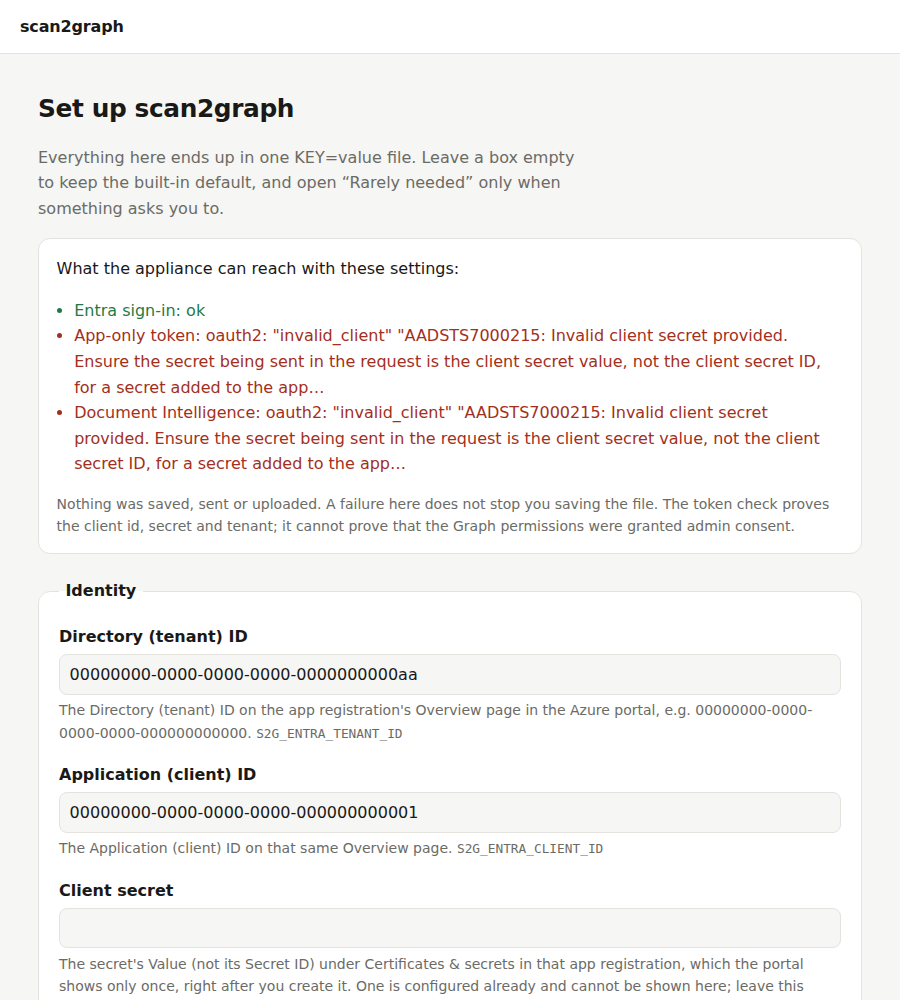
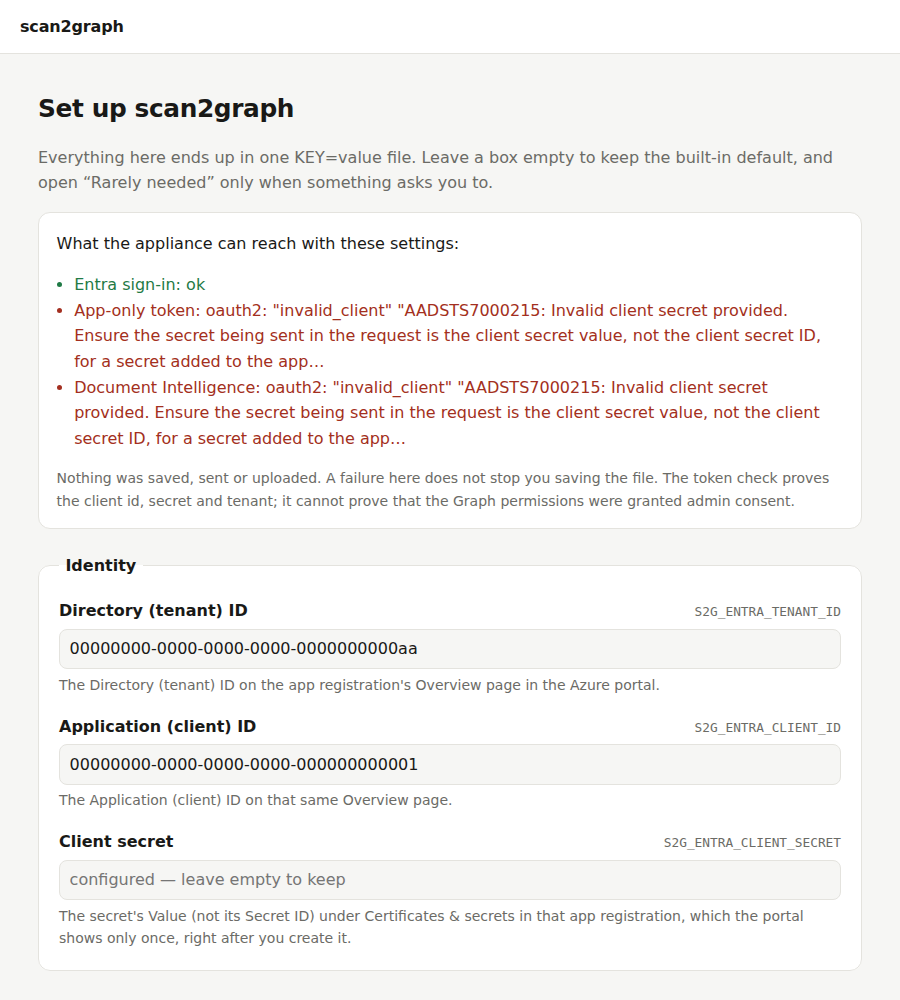
Make the setup form about what actually has to be configured
The wizard asked for twenty-two settings with equal weight, and said each
setting's S2G_* name at the end of the sentence explaining it, where the
name competed with the explanation. Someone setting this up for the first
time reads all of it as equally required.

So the name moves onto the label's row, small and muted: still there for
the operator who is looking for it in the configuration reference, no
longer in the way of the person reading the help. The shape of an answer
moves out of the help sentence into a placeholder, which lets every one of
those sentences get shorter and shows the example where the answer goes
rather than under it. The sentence that said a secret is configured and an
empty box keeps it becomes a placeholder in that box, where it is about
the box it is about.

How long a scan stays available, the log level and the log format are not
things a household tunes, so they join the rarely-needed settings. That
leaves the Advanced card with nothing but rarely-needed settings in it, and
a card built only to hold its own disclosure is a box around a box - so a
group with nothing ordinary left in it now collapses straight to the
disclosure, named for the group it replaces. Nothing declares that; it
follows from the group being entirely rare.

The default time a scan stays downloadable goes from 90 minutes to 8 hours.
Ninety minutes is shorter than the working day the scan was made in: paper
[…]

diff --git a/internal/web/templates/setup.html b/internal/web/templates/setup.html
@@ -40,6 +40,7 @@ consent.</p>
 <form method="post" action="/setup">
 <input type="hidden" name="form" value="{{.Form}}">
 {{range .Groups}}
+{{if .Fields}}
 <fieldset>
 <legend>{{.Name}}</legend>
 {{range .Fields}}{{template "field" .}}{{end}}
@@ -50,6 +51,16 @@ consent.</p>
 </details>
 {{end}}
 </fieldset>
+{{else}}
+{{/* A group that is entirely Rare has nothing ordinary to put in a
+     fieldset, so a fieldset built only to hold its "Rarely needed"
+     disclosure would be a box around a box: collapse straight to the
+     disclosure instead, named for the group it replaces. */}}
+<details class="group">
+<summary>{{.Name}}</summary>
+{{range .Rare}}{{template "field" .}}{{end}}
+</details>
+{{end}}
 {{end}}
 <div class="actions">
 {{if .Path}}<button type="submit" name="action" value="save" class="primary">Save the configuration file</button>{{end}}
@@ -64,23 +75,29 @@ consent.</p>
 {{define "field" -}}
 <div class="field{{if .Error}} bad{{end}}">
 {{if eq .Kind "bool"}}
+<span class="field-head">
 <label class="check"><input type="checkbox" id="{{.Name}}" name="{{.Name}}" value="true"{{if .Checked}} checked{{end}}> {{.Label}}</label>
+<code>{{.Name}}</code>
+</span>
 {{else}}
+<span class="field-head">
 <label for="{{.Name}}">{{.Label}}</label>
+<code>{{.Name}}</code>
+</span>
 {{if eq .Kind "choice"}}
 <select id="{{.Name}}" name="{{.Name}}">
 <option value="">(default)</option>
 {{range .Choice}}<option value="{{.}}"{{if eq . $.Value}} selected{{end}}>{{.}}</option>{{end}}
 </select>
 {{else if eq .Kind "area"}}
-<textarea id="{{.Name}}" name="{{.Name}}" rows="3" spellcheck="false">{{.Value}}</textarea>
+<textarea id="{{.Name}}" name="{{.Name}}" rows="3" spellcheck="false"{{if .Placeholder}} placeholder="{{.Placeholder}}"{{end}}>{{.Value}}</textarea>
 {{else if eq .Kind "secret"}}
-<input type="password" id="{{.Name}}" name="{{.Name}}" value="" autocomplete="new-password">
+<input type="password" id="{{.Name}}" name="{{.Name}}" value="" autocomplete="new-password"{{if .Placeholder}} placeholder="{{.Placeholder}}"{{end}}>
 {{else}}
-<input type="text" id="{{.Name}}" name="{{.Name}}" value="{{.Value}}" spellcheck="false">
+<input type="text" id="{{.Name}}" name="{{.Name}}" value="{{.Value}}" spellcheck="false"{{if .Placeholder}} placeholder="{{.Placeholder}}"{{end}}>
 {{end}}
 {{end}}
 {{if .Error}}<p class="error small">{{.Error}}</p>{{end}}
-<p class="muted small">{{.Help}}{{if .Set}} One is configured already and cannot be shown here; leave this empty to keep it.{{end}} <code>{{.Name}}</code></p>
+<p class="muted small">{{.Help}}</p>
 </div>
 {{- end}}

diff --git a/internal/web/static/style.css b/internal/web/static/style.css
@@ -117,7 +117,7 @@ tbody a:hover { text-decoration: underline; }
 .nowrap { white-space: nowrap; }
 .muted { color: var(--muted); }
 .small { font-size: .875rem; }
-.empty { color: var(--muted); max-width: 34rem; }
+.empty { color: var(--muted); }
 .error { color: var(--warn); }
 
 /* A five-column table does not fit a phone, so each scan becomes a small
@@ -138,7 +138,10 @@ tbody a:hover { text-decoration: underline; }
 
 /* The setup wizard: one long form, filled in once. The groups carry the
    structure, so the boxes themselves can stay quiet. */
-fieldset {
+/* A group that is entirely "rarely needed" collapses straight to the
+   disclosure (see setup.html) and still has to read like the card it stands
+   in for, so the two share one box. */
+fieldset, details.group {
   margin: 0 0 1.5rem;
   padding: 1.25rem;
   background: var(--panel);
@@ -147,9 +150,16 @@ fieldset {
 }
 legend { padding: 0 .4rem; font-weight: 600; }
 summary { cursor: pointer; color: var(--muted); font-size: .9rem; margin-bottom: .9rem; }
+details.group summary { font-weight: 600; color: inherit; font-size: 1rem; margin-bottom: 0; }
+details.group[open] summary { margin-bottom: .9rem; }
 .field { margin-bottom: 1.1rem; }
 .field:last-child { margin-bottom: 0; }
-.field > label { display: block; font-weight: 600; margin-bottom: .3rem; }
+/* The S2G_* key rides along the label's row instead of the help line below,
+   small and out of the way, so the setting's name never competes with the
+   sentence explaining it. */
+.field-head { display: flex; flex-wrap: wrap; align-items: baseline; justify-content: space-between; gap: .3rem .75rem; margin-bottom: .3rem; }
+.field-head label { font-weight: 600; }
+.field-head code { color: var(--muted); }
 .field p { margin: .3rem 0 0; }
 .field input, .field select, .field textarea {
   font: inherit;

diff --git a/internal/web/setupfields.go b/internal/web/setupfields.go
@@ -23,6 +23,11 @@ type setupField struct {
 	Choice            []string // fieldChoice only
 	Group             string   // fieldset heading
 	Rare              bool     // renders inside the group's <details> block
+	// Placeholder is a synthetic example shown in an empty box, so the shape
+	// of an answer needs no sentence of its own. It never shows once Set is
+	// true: what the box then has to say is that something is configured,
+	// not what one might look like.
+	Placeholder string
 }
 
 // setupFields is every S2G_* setting a real deployment might set, in the
@@ -33,40 +38,51 @@ type setupField struct {
 var setupFields = []setupField{
 	{
 		Name: "S2G_ENTRA_TENANT_ID", Label: "Directory (tenant) ID", Group: "Identity",
-		Help: "The Directory (tenant) ID on the app registration's Overview page in the Azure portal, e.g. 00000000-0000-0000-0000-000000000000.",
+		Help:        "The Directory (tenant) ID on the app registration's Overview page in the Azure portal.",
+		Placeholder: "00000000-0000-0000-0000-000000000000",
 	}, {
 		Name: "S2G_ENTRA_CLIENT_ID", Label: "Application (client) ID", Group: "Identity",
-		Help: "The Application (client) ID on that same Overview page.",
+		Help:        "The Application (client) ID on that same Overview page.",
+		Placeholder: "00000000-0000-0000-0000-000000000000",
 	}, {
 		Name: "S2G_ENTRA_CLIENT_SECRET", Label: "Client secret", Kind: fieldSecret, Group: "Identity",
 		Help: "The secret's Value (not its Secret ID) under Certificates & secrets in that app registration, which the portal shows only once, right after you create it.",
 	}, {
 		Name: "S2G_GRAPH_SENDER", Label: "Sending mailbox", Group: "Delivery",
-		Help: "The mailbox scans are mailed from, e.g. scanner@example.com; setting it together with the allowlist below is what turns email delivery on.",
+		Help:        "The mailbox scans are mailed from; setting it together with the allowlist below is what turns email delivery on.",
+		Placeholder: "scanner@example.com",
 	}, {
 		Name: "S2G_ALLOWED_RECIPIENT_DOMAINS", Label: "Allowed recipient domains", Group: "Delivery",
-		Help: "Comma-separated domains a scan may be mailed to, without a leading @ and matched exactly, e.g. example.com; email delivery requires it, or the appliance would be an open relay.",
+		Help:        "Comma-separated domains a scan may be mailed to, without a leading @ and matched exactly; email delivery requires it, or the appliance would be an open relay.",
+		Placeholder: "example.com, example.org",
 	}, {
 		Name: "S2G_RECIPIENT_ALIASES", Label: "Recipient aliases", Kind: fieldArea, Group: "Delivery",
-		Help: `JSON object mapping a shorthand address the printer's address book can hold to the real one, e.g. {"printer-shortcut@scanner.local":"jane.doe@example.com"}.`,
+		Help:        "JSON object mapping a shorthand address the printer's address book can hold to the real one.",
+		Placeholder: `{"printer-shortcut@scanner.local":"jane.doe@example.com"}`,
 	}, {
 		Name: "S2G_PUBLIC_BASE_URL", Label: "Public URL", Group: "Web UI",
-		Help: "Where this appliance is reached through the reverse proxy that terminates TLS, e.g. https://scan2graph.example.com; setting it is what turns the web UI on, and it must address the root of a host of its own.",
+		Help:        "Where this appliance is reached through the reverse proxy that terminates TLS; setting it is what turns the web UI on, and it must address the root of a host of its own.",
+		Placeholder: "https://scan2graph.example.com",
 	}, {
 		Name: "S2G_UI_TITLE", Label: "Name shown in the UI", Group: "Web UI",
-		Help: "What the web UI calls itself in its title and header, so it can say the household's or the office's name; defaults to scan2graph.",
+		Help:        "What the web UI calls itself in its title and header, so it can say the household's or the office's name.",
+		Placeholder: "scan2graph",
 	}, {
-		Name: "S2G_JOB_TTL", Label: "How long a scan stays available", Group: "Web UI",
-		Help: "How long a scan can be downloaded before it and its files are deleted, written like 90m or 2h and at least 1m.",
+		Name: "S2G_JOB_TTL", Label: "How long a scan stays available", Group: "Web UI", Rare: true,
+		Help:        "How long a scan can be downloaded before it and its files are deleted; must be at least 1m.",
+		Placeholder: "8h",
 	}, {
 		Name: "S2G_HTTP_ADDR", Label: "HTTP listen address", Group: "Web UI", Rare: true,
-		Help: "Address the web UI listens on inside the container; defaults to :8080.",
+		Help:        "Address the web UI listens on inside the container.",
+		Placeholder: ":8080",
 	}, {
 		Name: "S2G_SMTP_ADDR", Label: "SMTP listen address", Group: "Scanner",
-		Help: "Address the printer sends its scans to; defaults to :2525.",
+		Help:        "Address the printer sends its scans to.",
+		Placeholder: ":2525",
 	}, {
 		Name: "S2G_SMTP_USERNAME", Label: "SMTP username", Group: "Scanner",
-		Help: "Username the printer signs in with; defaults to scanner, and only means anything once a password is set.",
+		Help:        "Username the printer signs in with; only means anything once a password is set.",
+		Placeholder: "scanner",
 	}, {
 		Name: "S2G_SMTP_PASSWORD", Label: "SMTP password", Kind: fieldSecret, Group: "Scanner",
 		Help: "Password the printer signs in with; leave it unset and scan2graph makes up a new one on every start, which means reconfiguring the printer after every restart.",
@@ -75,30 +91,36 @@ var setupFields = []setupField{
 		Help: "For a printer that cannot authenticate at all: only on a trusted, isolated network segment, and not together with a username or password.",
 	}, {
 		Name: "S2G_PROFILES", Label: "Sender profiles", Kind: fieldArea, Group: "Scanner", Rare: true,
-		Help: `JSON object giving each printer sender address the features it may use, e.g. {"scan-web@scanner.local":{"email":false,"web":true,"ocr":true}}; leave it empty and every sender gets whatever the settings above enable.`,
+		Help:        "JSON object giving each printer sender address the features it may use; leave it empty and every sender gets whatever the settings above enable.",
+		Placeholder: `{"scan-web@scanner.local":{"email":false,"web":true,"ocr":true}}`,
 	}, {
 		Name: "S2G_MAX_MESSAGE_BYTES", Label: "Largest accepted message", Group: "Scanner", Rare: true,
-		Help: "Biggest message the SMTP listener accepts, in bytes; defaults to 33554432, which is 32 MiB.",
+		Help:        "Biggest message the SMTP listener accepts, in bytes; the default is 32 MiB.",
+		Placeholder: "33554432",
 	}, {
 		Name: "S2G_DI_ENDPOINT", Label: "Document Intelligence endpoint", Group: "Text recognition",
-		Help: "The https URL of the Azure Document Intelligence resource that makes scans searchable, e.g. https://replace-me.cognitiveservices.azure.com; setting it is what turns text recognition on.",
+		Help:        "The https URL of the Azure Document Intelligence resource that makes scans searchable; setting it is what turns text recognition on.",
+		Placeholder: "https://example.cognitiveservices.azure.com",
 	}, {
 		Name: "S2G_LOG_LEVEL", Label: "Log level", Kind: fieldChoice,
-		Choice: []string{"debug", "info", "warn", "error"}, Group: "Advanced",
+		Choice: []string{"debug", "info", "warn", "error"}, Group: "Advanced", Rare: true,
 		Help: "How much scan2graph writes to its log; defaults to info.",
 	}, {
 		Name: "S2G_LOG_FORMAT", Label: "Log format", Kind: fieldChoice,
-		Choice: []string{"json", "text"}, Group: "Advanced",
+		Choice: []string{"json", "text"}, Group: "Advanced", Rare: true,
 		Help: "json for a log collector, text for reading it yourself; defaults to json.",
 	}, {
 		Name: "S2G_TEMP_DIR", Label: "Temporary directory", Group: "Advanced", Rare: true,
-		Help: "Where scans are kept while they are worked on; it is wiped on every start and defaults to the operating system's temp directory.",
+		Help:        "Where scans are kept while they are worked on; it is wiped on every start and defaults to the operating system's temp directory.",
+		Placeholder: "/tmp",
 	}, {
 		Name: "S2G_MAX_JOBS", Label: "Most scans kept at once", Group: "Advanced", Rare: true,
-		Help: "How many scans may be queued, in flight or waiting to be picked up together; defaults to 32.",
+		Help:        "How many scans may be queued, in flight or waiting to be picked up together.",
+		Placeholder: "32",
 	}, {
 		Name: "S2G_MAX_CONCURRENT_JOBS", Label: "Scans processed at once", Group: "Advanced", Rare: true,
-		Help: "How many scans are worked on at the same time; defaults to 2.",
+		Help:        "How many scans are worked on at the same time.",
+		Placeholder: "2",
 	},
 }
 

diff --git a/internal/web/setup.go b/internal/web/setup.go
@@ -504,10 +504,11 @@ type setupGroup struct {
 // is never rendered back.
 type setupInput struct {
 	setupField
-	Value   string
-	Checked bool
-	Set     bool // a value is configured that no box can show
-	Error   string
+	Value       string
+	Checked     bool
+	Set         bool // a value is configured that no box can show
+	Placeholder string
+	Error       string
 }
 
 func (s *setupServer) view(values map[string]string, general []string, byField map[string]string) setupView {
@@ -524,6 +525,12 @@ func (s *setupServer) view(values map[string]string, general []string, byField m
 		// the next press from this page - which folds into these values,
 		// remember having stored them under the id being rendered.
 		in.Set = values[f.Name+"_FILE"] != "" || (f.Kind == fieldSecret && values[f.Name] != "")
+		// Set wins over a field's own shape example: once there is a value no
+		// box can show, saying so is more important than what one looks like.
+		in.Placeholder = f.Placeholder
+		if in.Set {
+			in.Placeholder = "configured — leave empty to keep"
+		}
 		switch f.Kind {
 		case fieldSecret:
 			// Never rendered back into the page.

diff --git a/internal/web/setup_test.go b/internal/web/setup_test.go
@@ -353,7 +353,7 @@ func TestSetupRejectsAndAttributes(t *testing.T) {
 	if strings.Contains(body, testClientSecret) {
 		t.Fatal("the re-rendered form rendered the client secret")
 	}
-	if !strings.Contains(body, "One is configured already") {
+	if !strings.Contains(body, "configured — leave empty to keep") {
 		t.Error("the page does not offer to keep the secret it is holding")
 	}
 	fixed := validForm()
@@ -451,7 +451,7 @@ func TestSetupKeepsAFileSuppliedValue(t *testing.T) {
 				t.Fatal("the configured value was rendered into the page")
 			}
 			field, _, _ := strings.Cut(body[strings.Index(body, `id="`+name+`"`):], "</div>")
-			if !strings.Contains(field, "One is configured already") {
+			if !strings.Contains(field, "configured — leave empty to keep") {
 				t.Errorf("the page does not say that an empty box keeps the configured value:\n%s", field)
 			}
 

diff --git a/internal/config/config.go b/internal/config/config.go
@@ -164,7 +164,7 @@ func Load(getenv func(string) string) (*Config, error) {
 	c.GraphBaseURL = l.baseURLDefault("S2G_GRAPH_BASE_URL", "https://graph.microsoft.com/v1.0", "http", "https")
 	c.GraphScope = l.stringDefault("S2G_GRAPH_SCOPE", "https://graph.microsoft.com/.default")
 
-	c.JobTTL = l.durationAtLeast("S2G_JOB_TTL", 90*time.Minute, time.Minute)
+	c.JobTTL = l.durationAtLeast("S2G_JOB_TTL", 8*time.Hour, time.Minute)
 
 	c.Limits = l.limits()
 

diff --git a/internal/config/config_test.go b/internal/config/config_test.go
@@ -132,8 +132,8 @@ func TestLoadMinimalValidConfigAndDefaults(t *testing.T) {
 	if c.GraphScope != "https://graph.microsoft.com/.default" {
 		t.Errorf("GraphScope = %q", c.GraphScope)
 	}
-	if c.JobTTL != 90*time.Minute {
-		t.Errorf("JobTTL = %v, want 90m", c.JobTTL)
+	if c.JobTTL != 8*time.Hour {
+		t.Errorf("JobTTL = %v, want 8h", c.JobTTL)
 	}
 	wantLimits := Limits{
 		MaxMessageBytes:   33554432,

diff --git a/README.md b/README.md
@@ -283,7 +283,7 @@ real environment variables.
 
 | variable | default | required when |
 | --- | --- | --- |
-| `S2G_JOB_TTL` | `90m` (minimum `1m`) | — |
+| `S2G_JOB_TTL` | `8h` (minimum `1m`) | — |
 | `S2G_MAX_MESSAGE_BYTES` | `33554432` (32 MiB) — the SMTP DATA cap, which also bounds PDF size | — |
 | `S2G_MAX_JOBS` | `32` — queued + in-flight + web-visible jobs | — |
 | `S2G_MAX_CONCURRENT_JOBS` | `2` — pipeline workers, also the OCR concurrency cap | — |
@@ -480,7 +480,7 @@ and the document has to be scanned again. That is a deliberate trade-off for
 an appliance that otherwise needs zero operational care — the paper original
 is still lying on the scanner glass.
 
-Web-visible scans expire `S2G_JOB_TTL` (90 minutes by default) after the
+Web-visible scans expire `S2G_JOB_TTL` (8 hours by default) after the
 pipeline finishes with them — ready or failed — rather than from when the
 printer sent them. OCR can take a while, and failing takes longer still
 because every retry has to be spent first; measured from arrival, a scan
